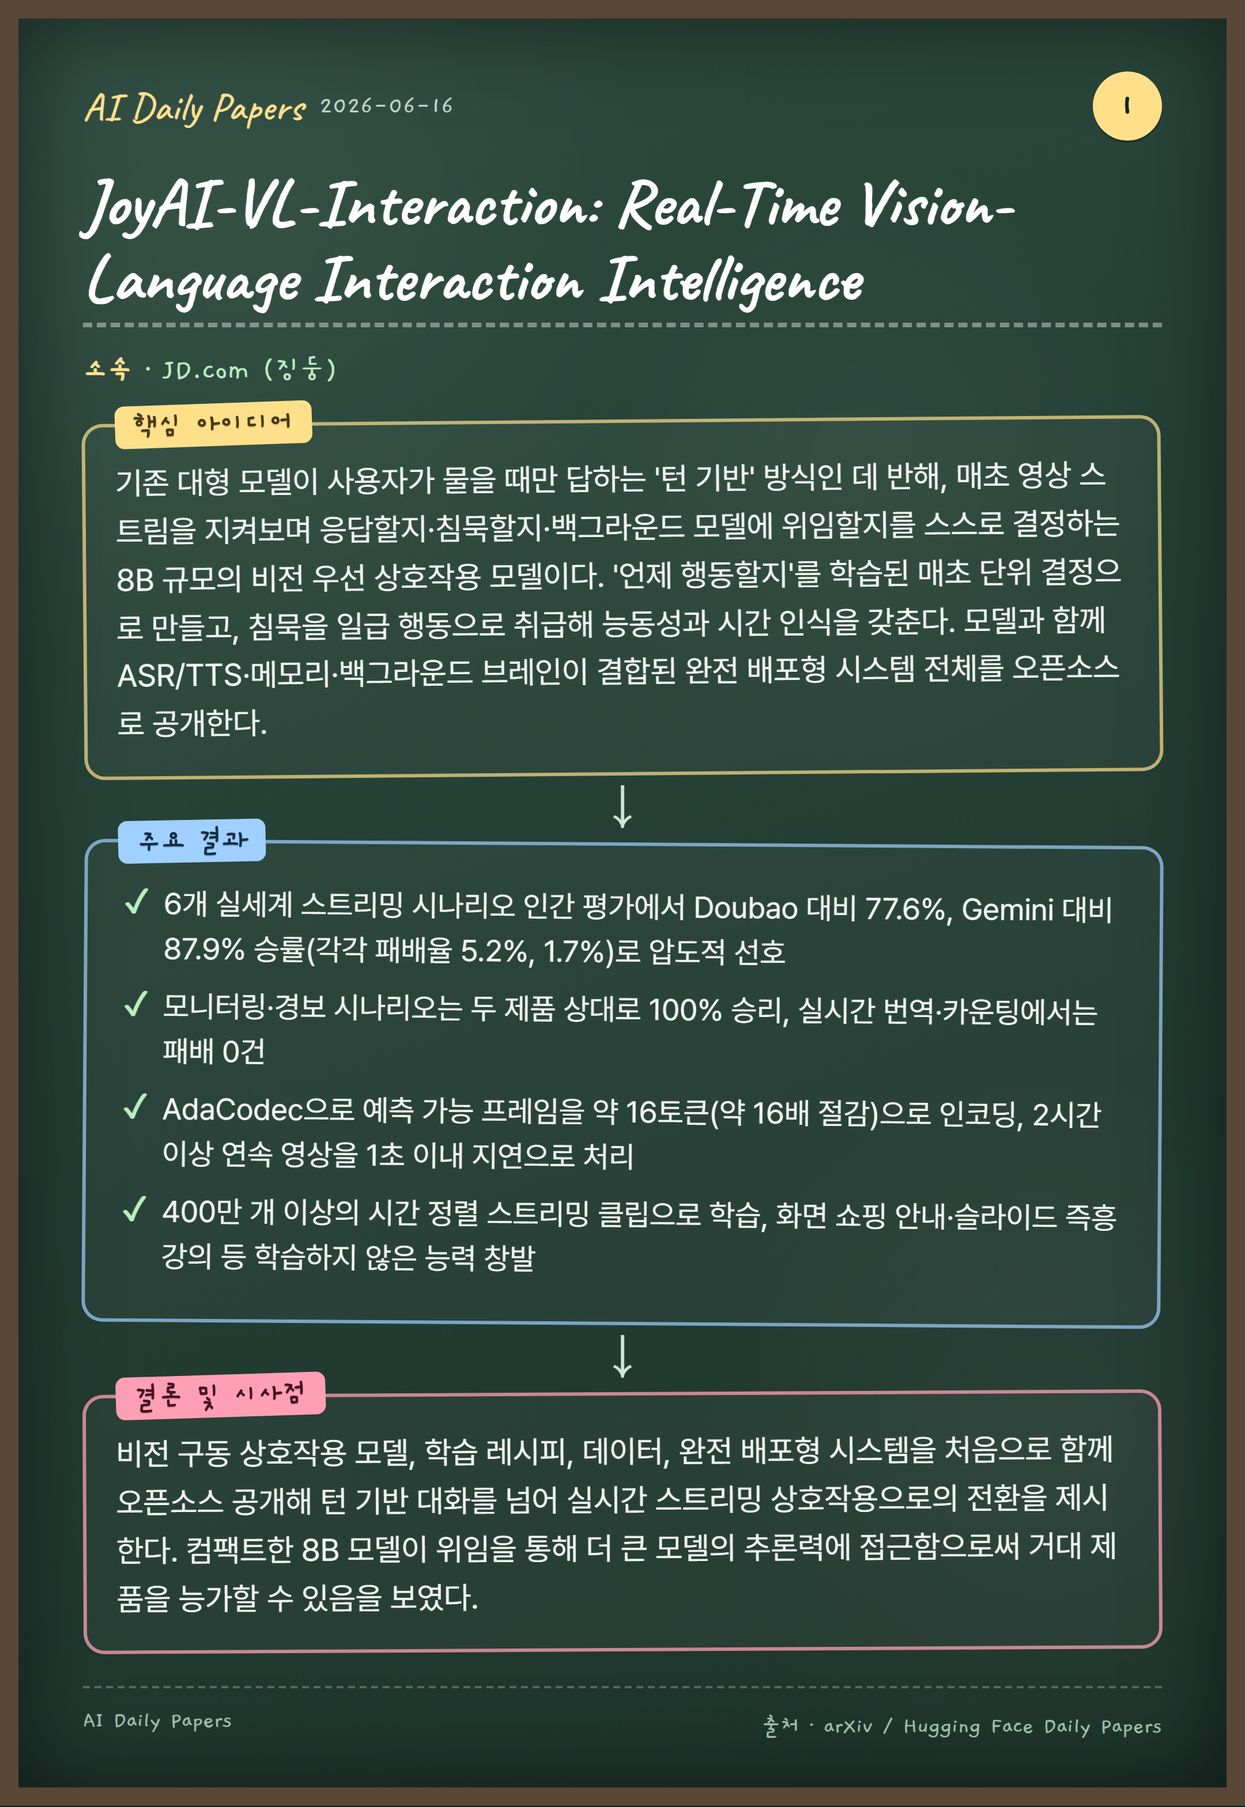
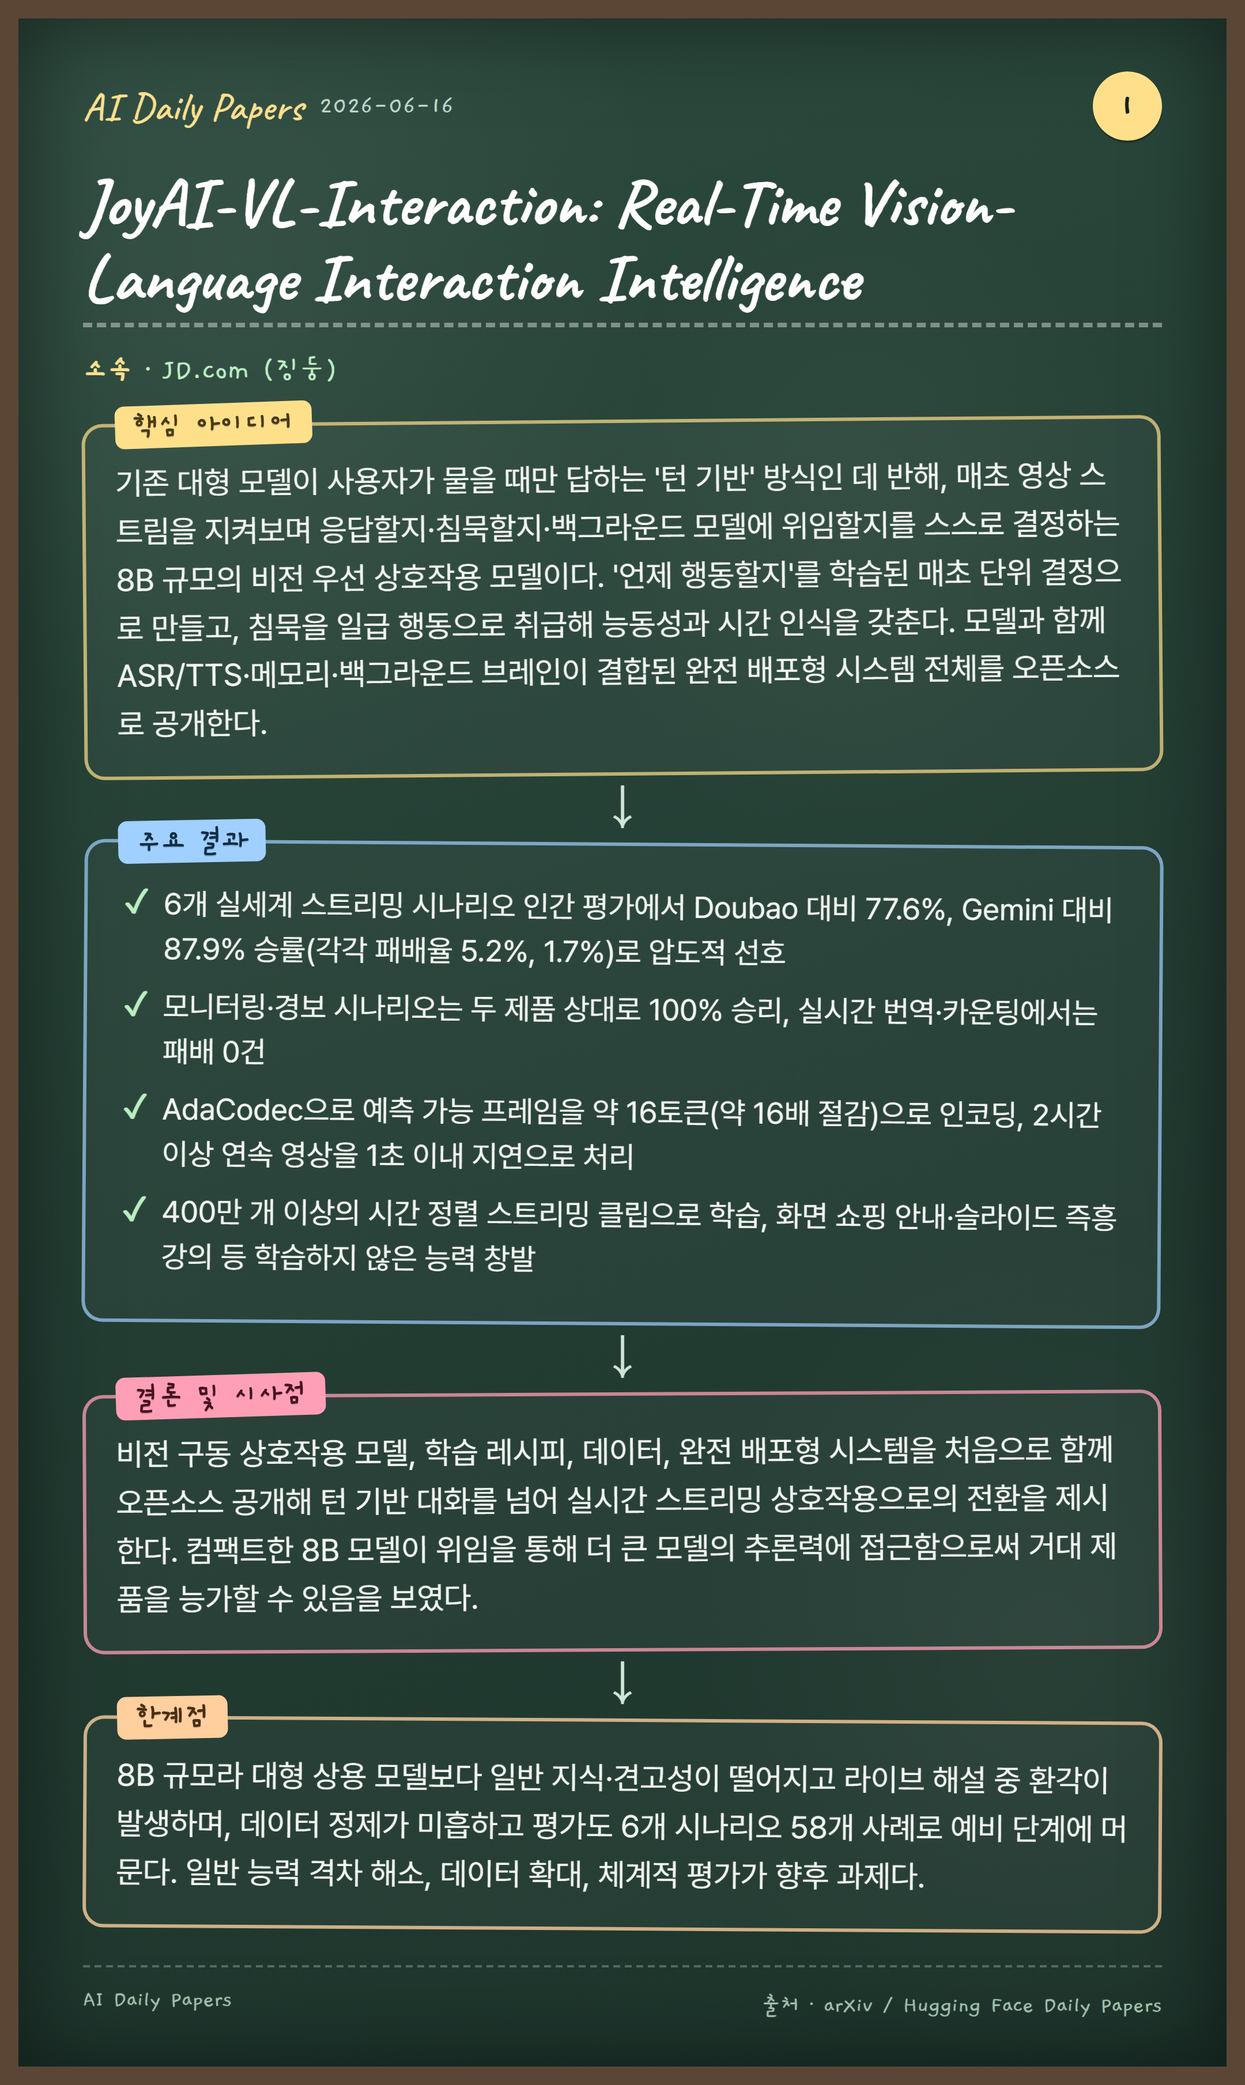
개선: 메인 카드 텍스트화(영문제목·핵심기여 1문장·소속, 인포그래픽 제거), 인포그래픽·상세에 한계점 추가, 안내문구 삭제

Changed region(s): [[0.062, 0.0312, 0.9616, 0.9688], [0.8685, 0.0312, 0.9306, 0.0938], [0.9306, 0.875, 0.9616, 0.9062]]

diff --git a/days/2026-06-16/index.html b/days/2026-06-16/index.html
@@ -63,6 +63,9 @@
         
         <div class="sec"><h4>결론 및 시사점</h4><p>비전 구동 상호작용 모델, 학습 레시피, 데이터, 완전 배포형 시스템을 처음으로 함께 오픈소스 공개해 턴 기반 대화를 넘어 실시간 스트리밍 상호작용으로의 전환을 제시한다. 컴팩트한 8B 모델이 위임을 통해 더 큰 모델의 추론력에 접근함으로써 거대 제품을 능가할 수 있음을 보였다.</p></div>
         
+        
+        <div class="sec"><h4>한계점</h4><p>8B 규모라 대형 상용 모델보다 일반 지식·견고성이 떨어지고 라이브 해설 중 환각이 발생하며, 데이터 정제가 미흡하고 평가도 6개 시나리오 58개 사례로 예비 단계에 머문다. 일반 능력 격차 해소, 데이터 확대, 체계적 평가가 향후 과제다.</p></div>
+        
 
         <div class="links">
           <a class="btn primary" href="https://arxiv.org/pdf/2606.14777" target="_blank" rel="noopener">arXiv 원문 PDF</a>
@@ -91,6 +94,9 @@
         
         
         <div class="sec"><h4>결론 및 시사점</h4><p>Data2Story는 경쟁력 있고 근거 추적이 가능한 멀티미디어 스토리를 생성하며 투명성·감사 가능성에서 특히 강하지만, 편집적 관점·창의적 디자인에서는 인간이 우위에 있다. 기자를 대체하기보다 인간이 관점·편집 판단을, 에이전트가 계산·그래픽·근거 검증을 맡는 협업 도구로 자리매김한다.</p></div>
+        
+        
+        <div class="sec"><h4>한계점</h4><p>현재 완전 자동으로만 동작해 사람이 반복 수정하는 휴먼인더루프가 없으며, 인간 작가가 글의 관점에 부여하는 깊이에는 아직 못 미친다.</p></div>
         
 
         <div class="links">
@@ -121,6 +127,9 @@
         
         <div class="sec"><h4>결론 및 시사점</h4><p>저장소 탐색은 본 에이전트의 암묵적 비용이 아니라 별도로 학습·평가 가능한 일급 구성요소로 다뤄야 한다. 작은 전용 탐색 모델이 과제 기반 RL을 통해 강력한 본 에이전트와 명확한 컨텍스트 경계를 두고 협업하는 모듈식 코딩 에이전트 구조의 가능성을 보여준다.</p></div>
         
+        
+        <div class="sec"><h4>한계점</h4><p>평가가 Mini-SWE-Agent와 강력한 본 모델(GPT-5.4·GLM-5.1 등)에 한정되어 다른 프레임워크·소형 본 모델로의 일반화가 미검증이며, 최소 4B 탐색 모델만 학습해 더 작은 모델과 데이터 오염 가능성은 향후 과제다.</p></div>
+        
 
         <div class="links">
           <a class="btn primary" href="https://arxiv.org/pdf/2606.14066" target="_blank" rel="noopener">arXiv 원문 PDF</a>
@@ -149,6 +158,9 @@
         
         
         <div class="sec"><h4>결론 및 시사점</h4><p>VisualClaw는 가중치 갱신 없이 엣지 프레임 게이팅·스킬 주입·메모리 진화의 3단계 하이브리드로 비용을 대폭 절감하면서 정확도를 높였다. 동일한 자기진화 메커니즘이 정적 비디오-QA를 넘어 워크스페이스형 멀티모달 에이전트 작업으로도 전이되어 AI 글래스 같은 실시간 엣지 응용에 적합하다.</p></div>
+        
+        
+        <div class="sec"><h4>한계점</h4><p>자동 채점 실패에서 스킬을 학습하므로 정답 키 편향이 증폭되는 보상 해킹 위험이 있고, 한 VLM에 맞춰 진화한 스킬이 다른 VLM에선 성능을 떨어뜨릴 수 있으며 항시 시각 감시의 오남용 우려도 있다.</p></div>
         
 
         <div class="links">
@@ -179,6 +191,9 @@
         
         <div class="sec"><h4>결론 및 시사점</h4><p>현재 최첨단 코드 에이전트는 대규모·잡음 데이터 속에서 데이터 탐색과 코드 실행을 통합하는 능력이 크게 부족하며, 특히 신호 대 잡음비가 낮거나 데이터 용량이 큰 환경에서 성능이 급락한다. CODA-BENCH는 실제 개발 환경에 가까운 평가로 자율 엔지니어로 나아갈 개선 여지를 제시한다.</p></div>
         
+        
+        <div class="sec"><h4>한계점</h4><p>Kaggle 생태계 기반이라 ETL·실시간 분석 등 다른 데이터 도메인을 충분히 대표하지 못하고, 데이터가 잘 정제돼 실제 환경의 지저분한 데이터와 차이가 있으며 공개 데이터로 인한 학습 오염 위험이 있다.</p></div>
+        
 
         <div class="links">
           <a class="btn primary" href="https://arxiv.org/pdf/2606.15300" target="_blank" rel="noopener">arXiv 원문 PDF</a>
@@ -207,6 +222,9 @@
         
         
         <div class="sec"><h4>결론 및 시사점</h4><p>메모리 관리를 전역 압축과 지역 제거로 분리함으로써 텍스트 감축과 엄격한 프롬프트 캐시 정렬을 동시에 달성해, 작업 성능 저하 없이 추론 비용을 대폭 절감했다. 장기 에이전트 시스템을 위한 확장 가능하고 비용 효율적인 기반을 제공한다.</p></div>
+        
+        
+        <div class="sec"><h4>한계점</h4><p>추정기가 모호·희소한 상호작용에서 세그먼트를 오분류할 수 있고, 임계값·배치 크기는 환경별 튜닝이 필요하며, 프리픽스 캐싱을 지원하는 백엔드에 의존하고 이질적 작업 스트림에서는 캐시 재사용률이 낮아질 수 있다.</p></div>
         
 
         <div class="links">
@@ -237,6 +255,9 @@
         
         <div class="sec"><h4>결론 및 시사점</h4><p>최종 성공률만으로는 에이전트가 어떻게 탐색·실행·실패하는지의 본질적 차이를 가릴 수 없으며, 프로세스 단위 평가는 이를 직접 진단 가능하게 만든다. WEBSTEP은 웹 에이전트 평가를 '순위 매기기'에서 '원인 진단'으로 확장한다.</p></div>
         
+        
+        <div class="sec"><h4>한계점</h4><p>사이트가 결정론적 MDP로 단순화돼 동적 콘텐츠·세션 의존성 등 실제 웹 특성을 반영하지 못하고, 10개 도메인·합성 템플릿 과제로 범위가 제한되며, 스킬의 성공 여부가 아닌 호출 여부만 측정하고 좌표 기반 상호작용으로 행동이 한정된다.</p></div>
+        
 
         <div class="links">
           <a class="btn primary" href="https://arxiv.org/pdf/2606.15673" target="_blank" rel="noopener">arXiv 원문 PDF</a>
@@ -265,6 +286,9 @@
         
         
         <div class="sec"><h4>결론 및 시사점</h4><p>하니스가 현실적 폰 워크플로우를 실행 가능하게 만들고, 벤치마크는 에이전트가 그 하니스를 신뢰성 있고 안전하게 쓰는지를 측정하는 상호 의존적 역할을 한다. 신뢰할 수 있는 폰 자동화는 시각적 GUI 제어만이 아니라 액션 표면 라우팅과 검증 가능한 실행에 달려 있음을 시사한다.</p></div>
+        
+        
+        <div class="sec"><h4>한계점</h4><p>검증·인간검수 부담으로 안정 과제 세트가 후보 풀보다 작고, 실제 앱은 변동·로그인/권한 문제로 평가가 취약하며 일부 기능이 호스트 의존적이다. 안전 평가는 초기 프로토콜 수준으로 혼합 행동 폰 자동화는 아직 미해결 과제다.</p></div>
         
 
         <div class="links">
@@ -295,6 +319,9 @@
         
         <div class="sec"><h4>결론 및 시사점</h4><p>조 단위 규모의 진전은 모델 크기 단독이 아니라 아키텍처·사후학습·시스템·에이전트 학습 환경의 긴밀한 공동 설계에서 나온다는 점을 보여준다. 전체 2.6 패밀리 체크포인트를 오픈소스로 공개해 실용적 에이전트 지능 연구를 지원한다.</p></div>
         
+        
+        <div class="sec"><h4>한계점</h4><p>flash 모델은 추론 깊이·도구 사용 신뢰도가 제한되고, 토큰 효율 목표가 지식 집약형 출력에서 불필요한 반복과 필수 사실 서술을 깔끔히 구분하지 못하며, 장기 에이전트 견고성과 언어 간 정렬 안정성도 부족하다.</p></div>
+        
 
         <div class="links">
           <a class="btn primary" href="https://arxiv.org/pdf/2606.15079" target="_blank" rel="noopener">arXiv 원문 PDF</a>
@@ -324,6 +351,9 @@
         
         <div class="sec"><h4>결론 및 시사점</h4><p>MoE 하이브리드 Mamba-Attention에 LatentMoE·MTP·NVFP4를 결합해 추론 효율과 정확도의 프런티어를 동시에 끌어올렸으며, 동급 오픈 LLM 대비 약 5배 처리량 우위를 보였다. 체크포인트·데이터·레시피를 모두 공개해 장시간 자율 에이전트 응용의 개방형 기반을 제공한다.</p></div>
         
+        
+        <div class="sec"><h4>한계점</h4><p>다중 교사 온폴리시 증류(MOPD)는 학생이 교사 분포를 벗어난 경로를 거의 샘플링하지 못하면 학습 신호가 약해져 자기완결적 추론 과제에서 개선폭이 작고, logit matching·end-to-end 에이전트 롤아웃 등은 자원 제약으로 충분히 검증하지 못했다.</p></div>
+        
 
         <div class="links">
           <a class="btn primary" href="https://arxiv.org/pdf/2606.15007" target="_blank" rel="noopener">arXiv 원문 PDF</a>
@@ -352,6 +382,9 @@
         
         
         <div class="sec"><h4>결론 및 시사점</h4><p>집계 정확도는 누가 피해를 보는지를 감추므로, 감사는 오류의 빈도가 아니라 오류가 '어디에' 떨어지는지를 추적해야 한다. 제안한 Lgov은 놓친 위협·억압된 협력·통제 비용을 분리하는 진단 도구이며, 적응형 거버넌스는 원시 오류율이 아닌 거버넌스 손실에 정렬된 보상이 필요하다.</p></div>
+        
+        
+        <div class="sec"><h4>한계점</h4><p>N=240의 이상화된 블록 구조 토이 모델이라 대규모·이질적·동적 네트워크로의 일반화는 미검증이며, 브리지 위치의 파급 효과는 특정 전염·밀도 조건에서만 성립하고 실제 작동 속성은 매개중심성이 아닌 노드 차수였다.</p></div>
         
 
         <div class="links">

diff --git a/assets/css/style.css b/assets/css/style.css
@@ -155,8 +155,10 @@ main { padding: 28px 0 80px; }
 .card {
   background: var(--bg-elev); border: 1px solid var(--border); border-radius: var(--radius);
   overflow: hidden; box-shadow: var(--shadow); display: flex; flex-direction: column;
-  transition: transform .18s ease, box-shadow .18s ease, border-color .2s;
+  transition: transform .18s ease, box-shadow .18s ease, border-color .2s; position: relative;
 }
+.card::before { content: ""; position: absolute; top: 0; left: 0; right: 0; height: 4px;
+  background: var(--accent-grad); z-index: 1; }
 .card:hover { transform: translateY(-4px); box-shadow: var(--shadow-lg); border-color: var(--accent); }
 .card .thumb { aspect-ratio: 4 / 3; background: var(--bg-soft); overflow: hidden; position: relative; flex: none; }
 .card .thumb img { position: absolute; inset: 0; width: 100%; height: 100%; object-fit: cover; object-position: top; }
@@ -172,12 +174,12 @@ main { padding: 28px 0 80px; }
   position: absolute; top: 12px; right: 12px; background: rgba(15,23,42,.78); color: #fff;
   font-weight: 700; font-size: .78rem; padding: 5px 9px; border-radius: 9px; backdrop-filter: blur(4px);
 }
-.card .body { padding: 15px 16px 17px; display: flex; flex-direction: column; gap: 8px; flex: 1; }
-.card .card-title { font-weight: 700; font-size: .95rem; line-height: 1.38; letter-spacing: -.01em;
-  display: -webkit-box; -webkit-line-clamp: 2; -webkit-box-orient: vertical; overflow: hidden; }
-.card .card-summary { font-size: .82rem; color: var(--text-soft); line-height: 1.5;
+.card .body { padding: 22px 20px 20px; display: flex; flex-direction: column; gap: 11px; flex: 1; }
+.card .card-title { font-weight: 800; font-size: 1.05rem; line-height: 1.4; letter-spacing: -.01em;
   display: -webkit-box; -webkit-line-clamp: 3; -webkit-box-orient: vertical; overflow: hidden; }
-.card .org { font-size: .8rem; color: var(--text-mute); margin-top: auto; font-weight: 600;
+.card .card-summary { font-size: .87rem; color: var(--text-soft); line-height: 1.55;
+  display: -webkit-box; -webkit-line-clamp: 5; -webkit-box-orient: vertical; overflow: hidden; }
+.card .org { font-size: .8rem; color: var(--text-mute); margin-top: auto; font-weight: 600; padding-top: 2px;
   display: -webkit-box; -webkit-line-clamp: 2; -webkit-box-orient: vertical; overflow: hidden; }
 .tags { display: flex; flex-wrap: wrap; gap: 6px; }
 .tag { font-size: .72rem; font-weight: 700; padding: 3px 9px; border-radius: 999px; color: #fff; }
@@ -243,17 +245,16 @@ main { padding: 28px 0 80px; }
   /* 모바일에선 컨트롤 고정 해제(화면 차지 최소화) */
   .controls { position: static; backdrop-filter: none; margin-top: 8px; padding: 14px 0; }
   .filter-label { width: 34px; }
-  .grid { grid-template-columns: repeat(auto-fill, minmax(150px, 1fr)); gap: 14px; }
-  .card .thumb { aspect-ratio: 4 / 3; }
-  .card .body { padding: 12px 13px 14px; gap: 8px; }
-  .card .card-title { font-size: .88rem; }
-  .card .card-summary { -webkit-line-clamp: 2; }
+  .grid { grid-template-columns: repeat(auto-fill, minmax(240px, 1fr)); gap: 14px; }
+  .card .body { padding: 18px 16px 16px; gap: 9px; }
+  .card .card-title { font-size: .98rem; }
+  .card .card-summary { -webkit-line-clamp: 4; }
   /* 상세: 단일 컬럼 */
   .paper { padding: 22px 18px 26px; }
   .paper-figure { padding: 12px; margin-bottom: 16px; }
   .paper h3 { font-size: 1.2rem; }
   .day-hero { padding: 32px 0 6px; }
 }
-@media (max-width: 420px) {
-  .grid { grid-template-columns: 1fr 1fr; }
+@media (max-width: 480px) {
+  .grid { grid-template-columns: 1fr; }
 }

diff --git a/index.html b/index.html
@@ -37,7 +37,7 @@
       <h1>오늘의 AI 연구를 <span class="grad">한 장으로</span>.</h1>
       <p>
         허깅페이스 <strong>Daily Papers</strong>에서 주목할 만한 논문을 매일 선별해 한글로 요약하고,
-        한 장짜리 인포그래픽으로 정리합니다. MCP · 멀티에이전트 오케스트레이션 · Agentic AI · 온톨로지 관련 논문은 우선 포함합니다.
+        한 장짜리 인포그래픽으로 정리합니다.
       </p>
       <div class="stats" id="stats"></div>
     </div>

diff --git a/assets/js/main.js b/assets/js/main.js
@@ -131,11 +131,7 @@
 
   function cardHtml(p) {
     const href = `${p.page}#paper-${esc(p.id)}`;
-    const thumb = p.image
-      ? `<img loading="lazy" src="${esc(p.image)}" alt="${esc(p.title)} 인포그래픽">`
-      : `<div class="ph">AI</div>`;
     return `<a class="card" href="${href}">
-      <div class="thumb">${thumb}</div>
       <div class="body">
         <div class="card-title">${esc(p.title)}</div>
         ${p.summary_line ? `<div class="card-summary">${esc(p.summary_line)}</div>` : ""}

diff --git a/scripts/pipeline.py b/scripts/pipeline.py
@@ -287,7 +287,7 @@ def cmd_build(args) -> None:
                 "title": p["title"],
                 "organizations": p.get("organizations", []) or ([p["org_hint"]] if p.get("org_hint") else []),
                 "upvotes": p.get("upvotes", 0),
-                "summary_line": first_sentence(p.get("summary", {}).get("core_idea", "")),
+                "summary_line": p.get("summary", {}).get("contribution") or first_sentence(p.get("summary", {}).get("core_idea", "")),
                 "image": (f"days/{date_str}/" + p["infographic"]["image_path"]) if p["infographic"].get("image_path") else "",
                 "hf_url": p.get("hf_url", ""),
             }

diff --git a/scripts/compose_infographic.py b/scripts/compose_infographic.py
@@ -39,6 +39,7 @@ def spec_from_paper(p: dict, date: str) -> dict:
         "core_idea": s.get("core_idea", ""),
         "key_results": s.get("key_results", []),
         "conclusion": s.get("conclusion", ""),
+        "limitations": s.get("limitations", ""),
     }
 
 

diff --git a/.claude/commands/daily-papers.md b/.claude/commands/daily-papers.md
@@ -21,16 +21,19 @@ argument-hint: "[YYYY-MM-DD] (생략 시 최신 날짜 자동)"
 - `pdf_ok=true` 면 `pdf_path` 의 PDF를 **Read 도구로 직접 읽습니다**(초록·서론·방법·결과·결론 중심, 긴 논문은 pages 인자 활용). `pdf_ok=false` 면 `hf_summary`·`ai_summary` 로 대체합니다.
 - 여러 논문은 **병렬 서브에이전트**(general-purpose)로 나눠 읽으면 빠릅니다. 각 논문에 대해 다음을 **한글로** 채웁니다(간결·핵심 위주):
   - `organizations`: 저자 소속 기관 배열(PDF 표지/각주에서 확인, 없으면 `org_hint` 사용)
+  - `summary.contribution`: **핵심 기여를 표현하는 간결한 한글 1문장**(메인 카드에 표시)
   - `summary.core_idea`: 핵심 아이디어 2~3문장
   - `summary.key_results`: 주요 결과 불릿 2~4개(수치/벤치마크 위주, **문자열 배열**)
   - `summary.conclusion`: 결론 및 시사점 2~3문장
+  - `summary.limitations`: **한계점/향후 과제 1~2문장**(논문에 명시된 한계 기반)
   - `infographic.image_path`: `"img/paper-NN.png"` (NN = rank 2자리, 예: `img/paper-01.png`)
   - `status.summarized`: `true`
 - 모든 논문 처리 후, **papers.json 전체를 Write 도구로 다시 저장**합니다(다른 필드·구조 보존).
+- 메인 카드에는 인포그래픽 없이 **영문제목·핵심 기여 1문장·소속**만, 인포그래픽에는 핵심아이디어·주요결과·결론·**한계점**이 칠판 도식으로 들어갑니다.
 - 참고: 제목은 **영문 원제만** 사용합니다(한글 번역 제목은 사이트·인포그래픽 어디에도 쓰지 않으므로 만들 필요 없음).
 
 ### 3단계 · 칠판 인포그래픽 합성 (스크립트, 한 번에)
-모든 논문을 한 번에 렌더링합니다(Playwright로 칠판 도식 HTML 템플릿을 PNG로 — 영문제목·소속·핵심아이디어·주요결과·결론을 한 장에 또렷한 한글로, 통일 스타일):
+모든 논문을 한 번에 렌더링합니다(Playwright로 칠판 도식 HTML 템플릿을 PNG로 — 영문제목·소속·핵심아이디어·주요결과·결론·한계점을 한 장에 또렷한 한글로, 통일 스타일):
 ```
 python scripts/compose_infographic.py --papers days/DATE/papers.json --all
 ```
